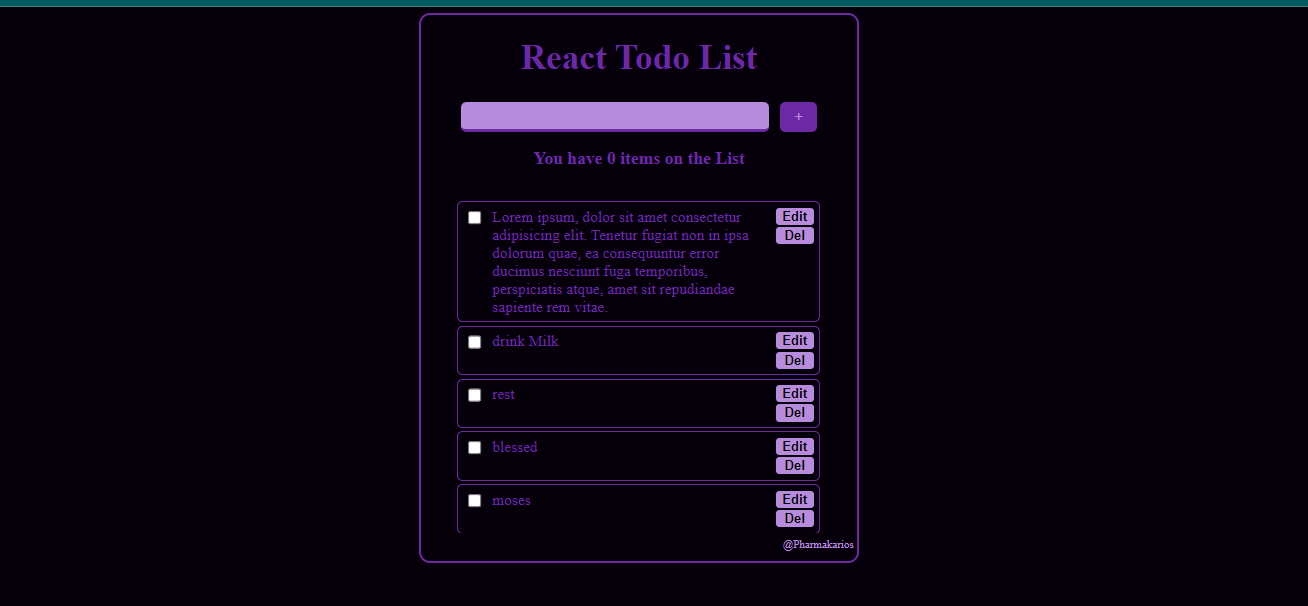
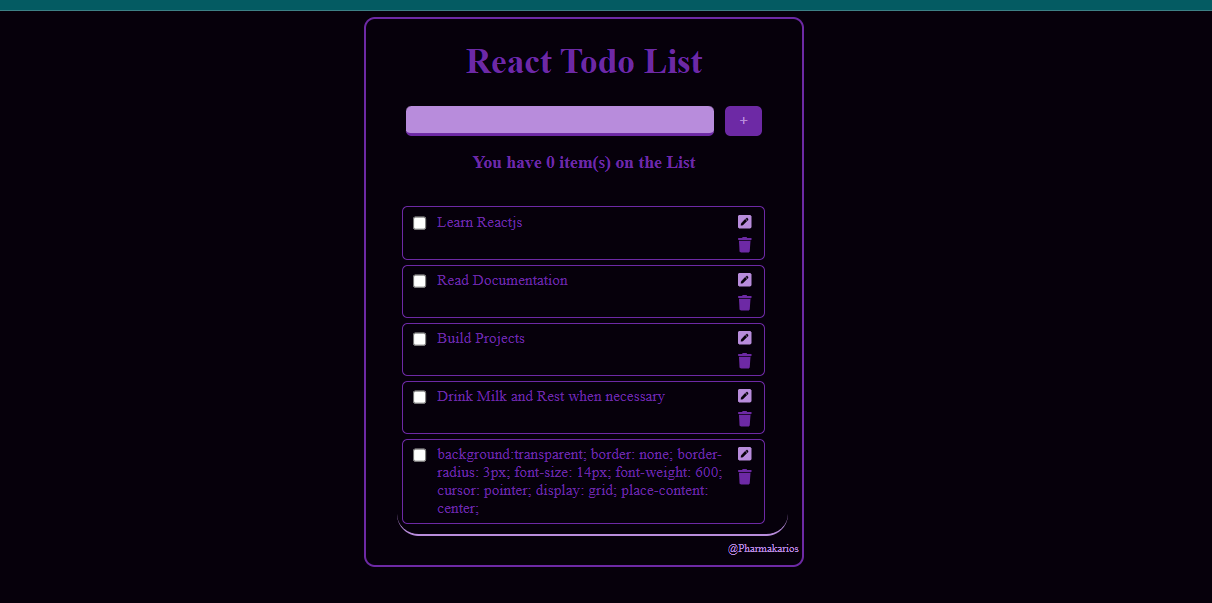
updated png and add function feature

Changed region(s): [[0.0, 0.0, 1.0, 0.9552], [0.3663, 0.0597, 0.58, 0.1194]]

diff --git a/src/App.jsx b/src/App.jsx
@@ -1,23 +1,32 @@
+import { useState } from "react";
 import Todoinput from "./components/Todoinput";
 import TodoList from "./components/TodoList";
 
 const App = () => {
-  let todos = [
-    "Lorem ipsum, dolor sit amet consectetur adipisicing elit. Tenetur fugiat non in ipsa dolorum quae, ea consequuntur error ducimus nesciunt fuga temporibus, perspiciatis atque, amet sit repudiandae sapiente rem vitae.",
-    "drink Milk",
-    "rest",
-    "blessed",
-    "moses",
-    "Gift",
-    "Hello Mr Man",
-  ];
+  const [todos, setTodos] = useState([]);
+
+  const handleAddTodos = (newTodo) => {
+    const newTodoList = [...todos, newTodo];
+    setTodos(newTodoList);
+  };
+
+  const handleDelete = (todo, index) => {
+    const newTodoList = todo.filter((newIndex) => {
+      if (newIndex !== index) setTodos(newTodoList);
+    });
+  };
+
   return (
     <div className="app">
       <h1>React Todo List</h1>
-      <Todoinput />
+
+      <Todoinput handleAddTodos={handleAddTodos} />
+
       <h6>`You cannot submit empty item`</h6>
       <h4>You have {0} item(s) on the List</h4>
-      <TodoList todos={todos} />
+
+      <TodoList todos={todos} handleDelete={handleDelete} />
+
       <p>@Pharmakarios</p>
     </div>
   );

diff --git a/src/index.css b/src/index.css
@@ -73,6 +73,10 @@ body{
     margin: 0 0 25px 15px;
     padding: 5px;
     overflow-y:scroll;
+    border-bottom: 2px solid #b88cdc;
+    border-bottom-right-radius: 20px ;
+    border-bottom-left-radius: 20px ;
+
 }
 ::-webkit-scrollbar{
     content: "";
@@ -82,7 +86,7 @@ body{
     border:1px solid #6d29a5;
     border-radius: 5px;
     padding: 5px;
-    margin: 3px 4px;
+    margin: 4px 0px;
     min-height: 30px;
     display: flex;
     justify-content: space-between;
@@ -110,8 +114,9 @@ body{
 }
 
 .btn{
-    display: flex;
-    gap: 1px;
+ display: flex;
+ flex-direction: column;
+ gap: 5px;
 }
 
 .btn button{
@@ -127,10 +132,25 @@ body{
 }
 
 .faTrash{
-    color:#b88cdc;
+     color:#6D29A5;
 }
 
 .faEdit{
     color: #b88cdc;
-    margin-right: 0;
+}
+
+
+@media (min-width:600px){
+    .input-section .search{
+        width: 280px;
+    }
+}
+
+@media (max-width: 600px){
+    .input-section .search{
+        width: 160px;
+    }
+    .card-item{
+        width: 180px;
+    }
 }

diff --git a/src/components/Todoinput.jsx b/src/components/Todoinput.jsx
@@ -1,9 +1,26 @@
-const Todoinput = () => {
+import { useState } from "react";
+
+const Todoinput = ({ handleAddTodos }) => {
+  const [todoValue, setTodoValue] = useState("");
   return (
     <>
       <div className="input-section">
-        <input type="text" className="search" />
-        <button>+</button>
+        <input
+          type="text"
+          className="search"
+          value={todoValue}
+          onChange={(e) => {
+            setTodoValue(e.target.value);
+          }}
+        />
+        <button
+          onClick={() => {
+            handleAddTodos(todoValue);
+            setTodoValue("");
+          }}
+        >
+          +
+        </button>
       </div>
     </>
   );

diff --git a/src/components/TodoCard.jsx b/src/components/TodoCard.jsx
@@ -1,5 +1,5 @@
 import { FaPenSquare, FaTrash } from "react-icons/fa";
-const TodoCard = ({ children }) => {
+const TodoCard = ({ children, handleDelete, index }) => {
   return (
     <li className="card-item">
       <div className="input-text-wrapper">
@@ -12,7 +12,12 @@ const TodoCard = ({ children }) => {
           <FaPenSquare className="faEdit" />
         </button>
 
-        <button className="del">
+        <button
+          className="del"
+          onClick={() => {
+            handleDelete(index);
+          }}
+        >
           <FaTrash className="faTrash" />
         </button>
       </div>

diff --git a/src/components/TodoList.jsx b/src/components/TodoList.jsx
@@ -1,10 +1,14 @@
 import TodoCard from "./TodoCard";
 
-const TodoList = ({ todos }) => {
+const TodoList = ({ todos, handleDelete }) => {
   return (
     <ol className="ol">
       {todos.map((item, index) => {
-        return <TodoCard key={index}>{item}</TodoCard>;
+        return (
+          <TodoCard key={index} handleDelete={handleDelete}>
+            {item}
+          </TodoCard>
+        );
       })}
     </ol>
   );
